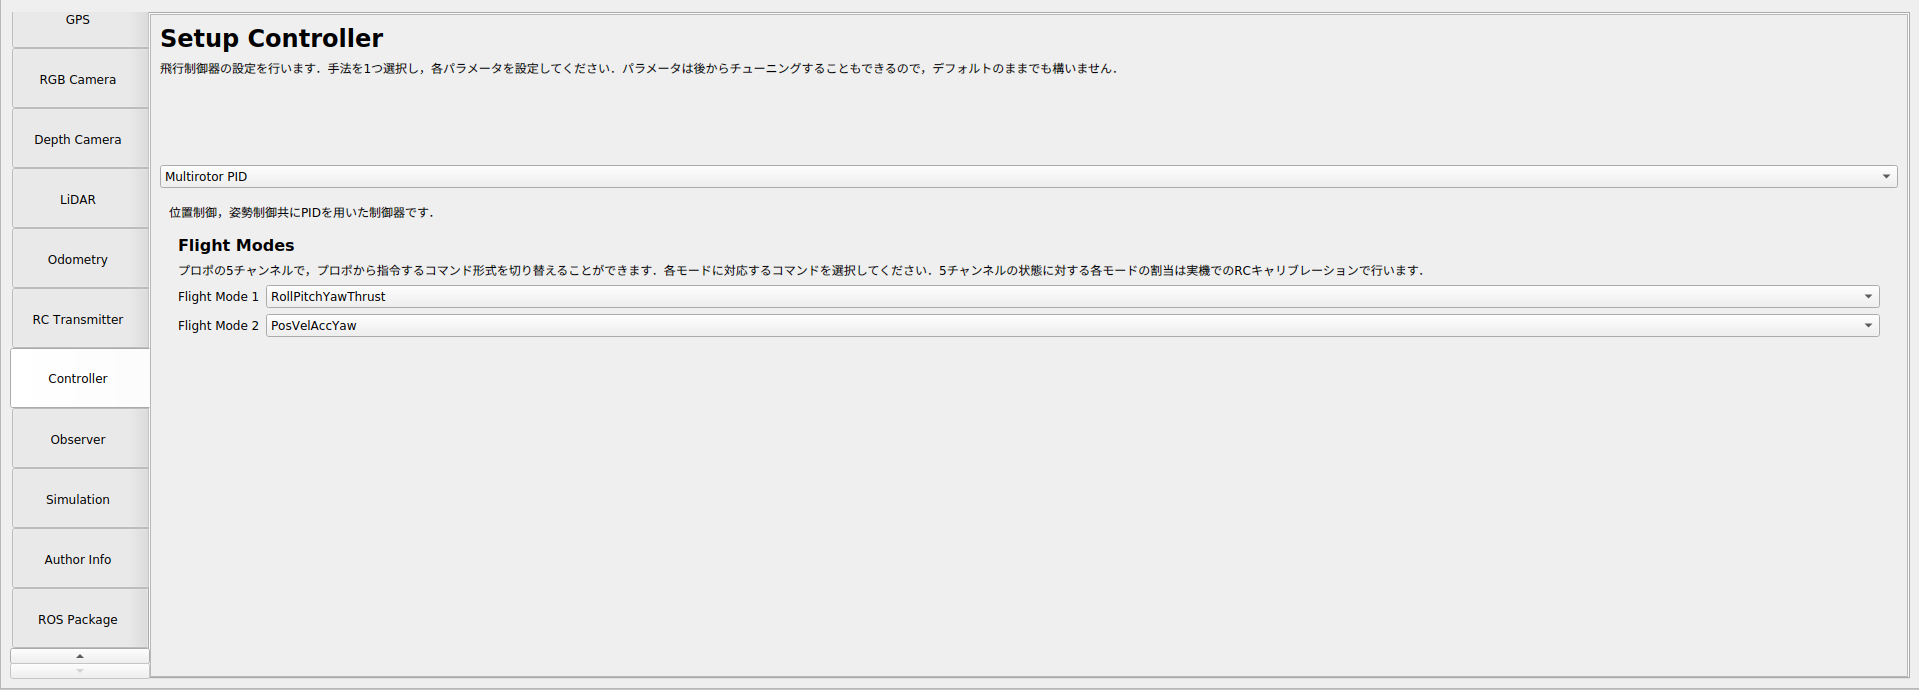
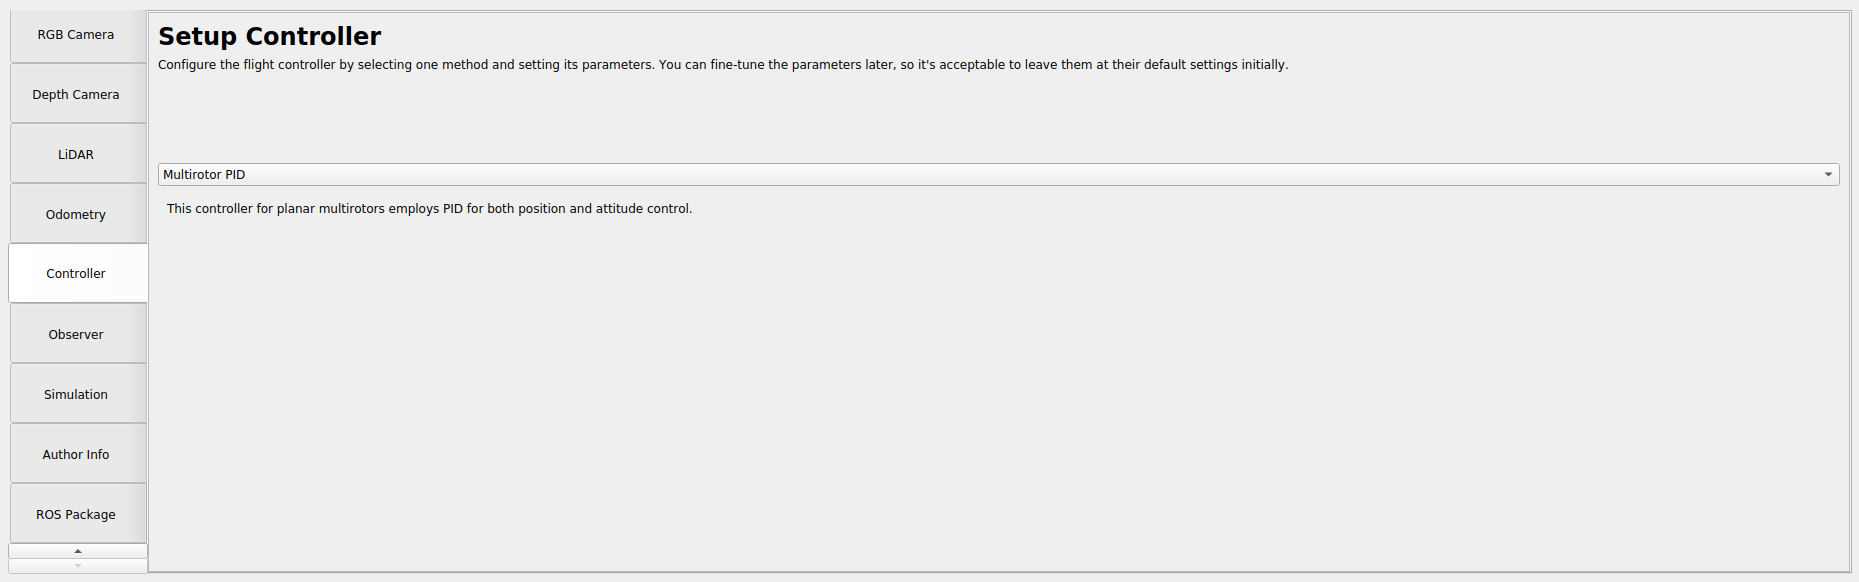
edit: setup_assistant

diff --git a/docs/setup_assistant.md b/docs/setup_assistant.md
@@ -3,34 +3,15 @@
 Tobas Setup Assistant は，Tobas を用いてドローンを飛ばすのに必要な設定ファイルを生成するための GUI です．
 前ページで作成した URDF を読み込み，プロペラの空気力学や制御器などの URDF には表現されていない項目の設定を行います．
 
-## catkin ワークスペースの作成
-
----
-
-Tobas Setup Assistant ではユーザの機体で Tobas を使用するのに必要な設定ファイルをまとめた ROS パッケージを作成します．
-それを使うためには catkin ワークスペースが必要であり，以下のコマンドで作成できます:
-
-```bash
-$ mkdir -p ~/catkin_ws/src
-$ cd ~/catkin_ws
-$ catkin init
-```
-
-`catkin_ws`を他の名前に置き換えることもできます．
-
 ## Setup Assistant の起動と URDF のロード
 
 ---
 
-ターミナルから Tobas Setup Assistant を起動します:
+Tobas を起動し，左上の選択リストから`Setup Assistant`を選択します．
 
-```bash
-$ roslaunch tobas_setup_assistant setup_assistant.launch
-```
+![start](resources/setup_assistant/start.png)
 
-![launch](resources/setup_assistant/launch.png)
-
-`Browse`ボタンを押して先程作成した URDF を選択し，`Load`ボタンを押すと，URDF がロードされます．
+`Load`ボタンを押して先程作成した URDF を選択すると，URDF がロードされます．
 画面左上の`Frames Tree`にはリンク名がツリー状に表示されており，リンク名をクリックすると中央のモデルビューで対応するリンクがハイライトされます．
 画面右上には全ての可動関節名が表示されており，バーを動かすと中央のモデルビューで対応する関節角が変化します．
 
@@ -69,7 +50,7 @@ $ roslaunch tobas_setup_assistant setup_assistant.launch
 ![propulsion_3](resources/setup_assistant/propulsion_3.png)
 
 `Motor Settings`ではモータのダイナミクスに関する設定を行います．
-複数の設定方法から選ぶことができ，`Set from experimental data`が望ましいのですが，
+複数の設定方法から選ぶことができ`Set from experimental data`が望ましいのですが，
 プロペラ込みのモータの実験データは持っていないため，今回は`Set from motor spec`を選択します．
 スペックシートを見ながら各項目に適切な値を入力します．
 
@@ -88,7 +69,7 @@ Static データをテーブルに転記してください．
 
 ![propulsion_5](resources/setup_assistant/propulsion_5.png)
 
-以下のような CSV ファイルを作成して`Load CSV`からロードすることもできます:
+以下のような CSV ファイルを作成して Load CSV からロードすることもできます:
 
 ```csv
 RPM,CT,CP
@@ -111,9 +92,9 @@ RPM,CT,CP
 ```
 
 他の 3 枚のプロペラについても設定を行う必要がありますが，回転方向以外は同じなのでコピーします．
-左のタブから順にタブ上部の`Copy from left tab`を押して左のタブの設定をコピーします．
+左のタブから順にタブ上部の `Copy from left tab` を押して左のタブの設定をコピーします．
 `propeller1`の設定が他のプロペラにも反映されていることを確認し，各プロペラの`Rotating Direction`を適切に設定します．
-リンク名と位置の対応がわからない場合は，`Frames Tree`のハイライト機能を用いて確認してください．
+リンク名と位置の対応がわからない場合は`Frames Tree`のハイライト機能を用いて確認してください．
 
 ## Fixed Wing
 
@@ -145,15 +126,6 @@ RPM,CT,CP
 カメラ，LiDAR，オドメトリを発行する機器の設定を行います．
 今回はいずれも搭載しないためパスします．
 
-## RC Transmitter
-
----
-
-プロポに関する設定を行います．
-`The number of flight modes`を 2 に設定します．
-
-![rc_transmitter](resources/setup_assistant/rc_transmitter.png)
-
 ## Controller
 
 ---
@@ -161,8 +133,6 @@ RPM,CT,CP
 制御器に関する設定を行います．
 コンボボックスを開くと使用可能な制御器が表示されます．
 今回は`Multirotor PID`を選択します．
-`Flight Modes`は`RC Transmitter`タブで設定した個数のフライトモードが表示されています．
-`Flight Mode 1`を`RollPitchYawThrust`に，`Flight Mode 2`を`PosVelAccYaw`に設定します．
 
 ![controller](resources/setup_assistant/controller.png)
 
@@ -198,17 +168,6 @@ Setup Assistant によって生成される Tobas パッケージの管理者の
 
 Tobas パッケージを生成するディレクトリとパッケージ名を設定します．
 `Parent Directory`を catkin ワークスペースの`src/`以下に設定し，`Package Name`に適当な名前を入力してください．
-`Generate`ボタンを押すと，指定したディレクトリに Tobas パッケージが生成され，Setup Assistant は自動的にシャットダウンします．
+`Generate`ボタンを押すと，指定したディレクトリに Tobas パッケージが生成されます．
 
 ![ros_package](resources/setup_assistant/ros_package.png)
-
-## Build
-
----
-
-catkin ワークスペース以下に移動し，生成した Tobas パッケージをビルドします:
-
-```bash
-$ cd ~/catkin_ws
-$ catkin build tobas_f450_config
-```
